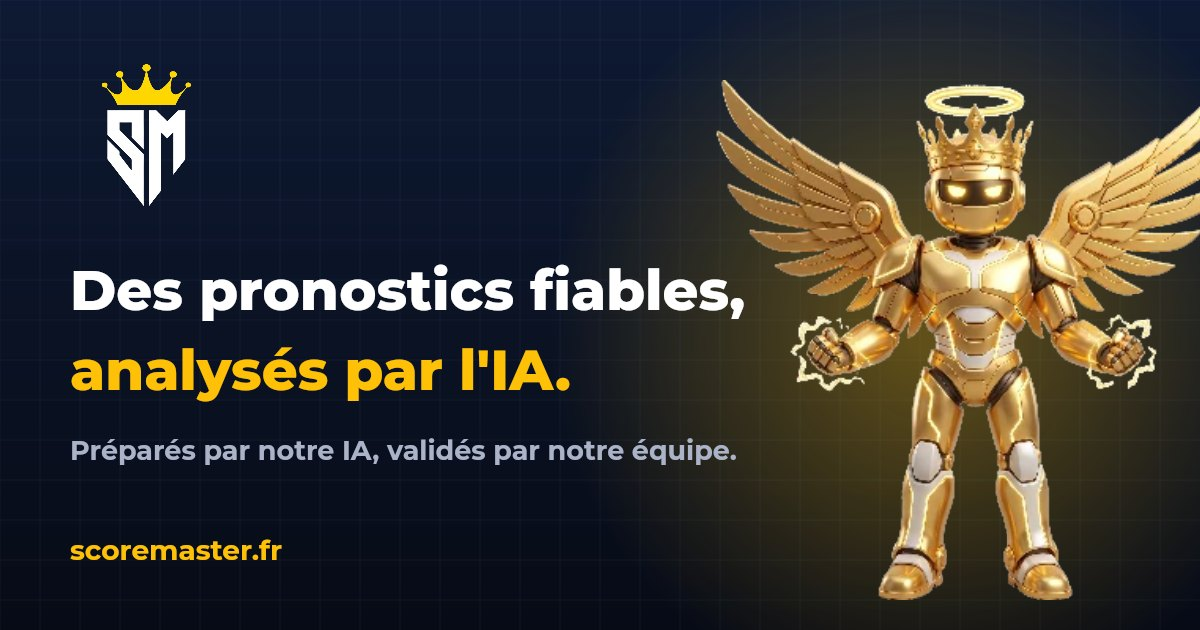
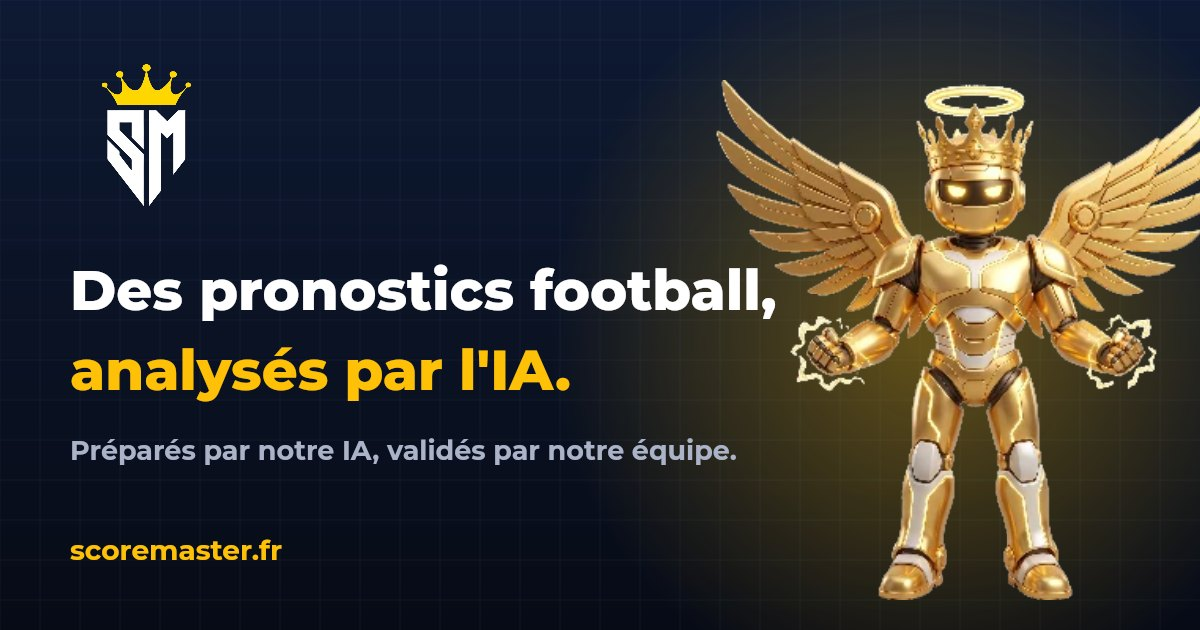
Accroche sans « fiables » : Des pronostics football, analyses par l'IA
Titre de la page d'accueil, description Google, apercus de partage, fiche Organization et image de partage.

Changed region(s): [[0.4625, 0.4222, 0.6475, 0.5127]]

diff --git a/index.html b/index.html
@@ -7,7 +7,7 @@
     <meta name="viewport" content="width=device-width, initial-scale=1.0, maximum-scale=1.0, user-scalable=no, viewport-fit=cover">
     
     <title>Score Master — Pronostics football analysés par l'IA</title>
-    <meta name="description" content="Score Master : des pronostics football fiables, analysés par l'IA et validés par notre équipe avant chaque publication. Rejoins la communauté sur Telegram et Instagram.">
+    <meta name="description" content="Score Master : des pronostics football analysés par l'IA et validés par notre équipe avant chaque publication. Rejoins la communauté sur Telegram et Instagram.">
     <link rel="canonical" href="https://scoremaster.fr/">
     <meta name="robots" content="index, follow, max-image-preview:large">
     <meta property="og:type" content="website">
@@ -15,16 +15,16 @@
     <meta property="og:locale" content="fr_FR">
     <meta property="og:url" content="https://scoremaster.fr/">
     <meta property="og:title" content="Score Master — Pronostics football analysés par l'IA">
-    <meta property="og:description" content="Des pronostics fiables, préparés par notre IA et validés par notre équipe. Rejoins la communauté Score Master.">
+    <meta property="og:description" content="Des pronostics football, préparés par notre IA et validés par notre équipe. Rejoins la communauté Score Master.">
     <meta property="og:image" content="https://scoremaster.fr/og-image.jpg">
     <meta property="og:image:width" content="1200">
     <meta property="og:image:height" content="630">
-    <meta property="og:image:alt" content="Score Master : des pronostics fiables, analysés par l'IA.">
+    <meta property="og:image:alt" content="Score Master : des pronostics football, analysés par l'IA.">
     <meta name="twitter:card" content="summary_large_image">
     <meta name="twitter:title" content="Score Master — Pronostics football analysés par l'IA">
-    <meta name="twitter:description" content="Des pronostics fiables, préparés par notre IA et validés par notre équipe.">
+    <meta name="twitter:description" content="Des pronostics football, préparés par notre IA et validés par notre équipe.">
     <meta name="twitter:image" content="https://scoremaster.fr/og-image.jpg">
-    <script type="application/ld+json">{"@context":"https://schema.org","@type":"Organization","name":"Score Master","url":"https://scoremaster.fr/","logo":"https://scoremaster.fr/logo-dark.png","description":"Score Master : des pronostics football fiables, analysés par l'IA et validés par notre équipe avant chaque publication. Rejoins la communauté sur Telegram et Instagram.","sameAs":["https://www.instagram.com/scoresmasters.fr/","https://t.me/scoremasteroff"]}</script>
+    <script type="application/ld+json">{"@context":"https://schema.org","@type":"Organization","name":"Score Master","url":"https://scoremaster.fr/","logo":"https://scoremaster.fr/logo-dark.png","description":"Score Master : des pronostics football analysés par l'IA et validés par notre équipe avant chaque publication. Rejoins la communauté sur Telegram et Instagram.","sameAs":["https://www.instagram.com/scoresmasters.fr/","https://t.me/scoremasteroff"]}</script>
     <meta name="apple-mobile-web-app-capable" content="yes">
     <meta name="apple-mobile-web-app-status-bar-style" content="black-translucent">
     <meta name="apple-mobile-web-app-title" content="Score Master">
@@ -1859,7 +1859,7 @@ async function fetchApiScore(id, dateRaw) {
         <span class="logo-scene"><img id="img-login" alt="Score Master" class="login-logo-img"><span class="logo-eclat" aria-hidden="true"></span><span class="logo-etincelle" aria-hidden="true"></span></span>
     </div>
     <section class="vt-hero">
-        <h1>Des pronostics fiables,<br><span>analysés par l'IA.</span></h1>
+        <h1>Des pronostics football,<br><span>analysés par l'IA.</span></h1>
         <p>Des combinés préparés par notre IA et validés par notre équipe avant chaque publication.</p>
         <div class="vt-atouts"><span><i class="fas fa-microchip"></i>Analyse IA</span><span><i class="fas fa-user-check"></i>Validation humaine</span><span><i class="fab fa-telegram-plane"></i>Communauté Telegram</span></div>
     </section>
